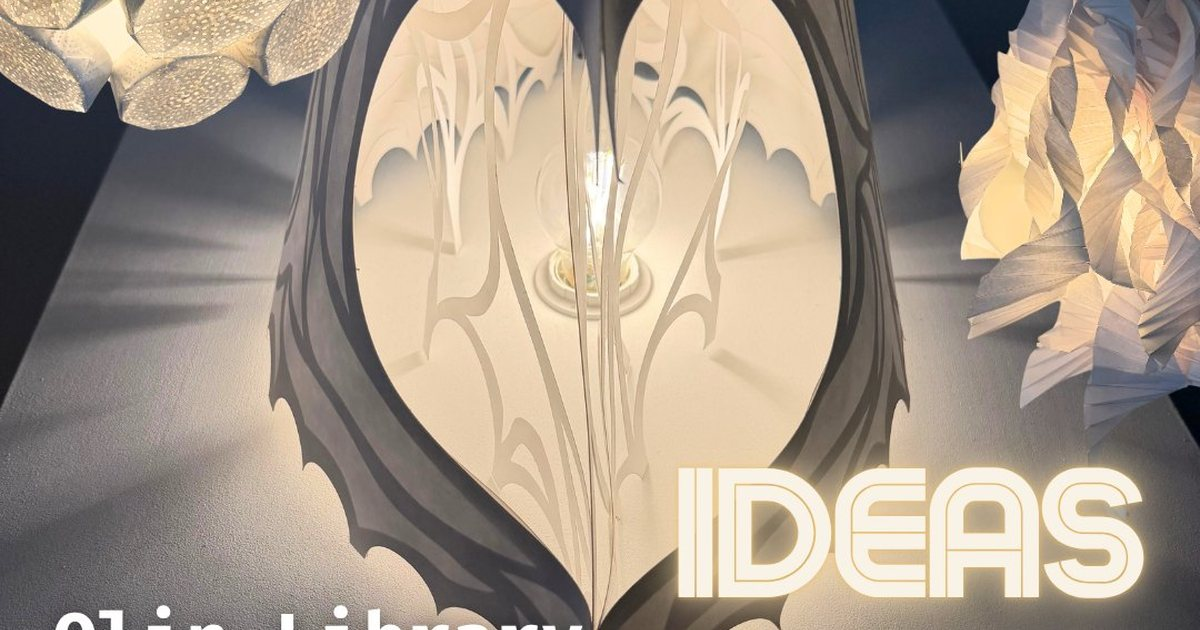
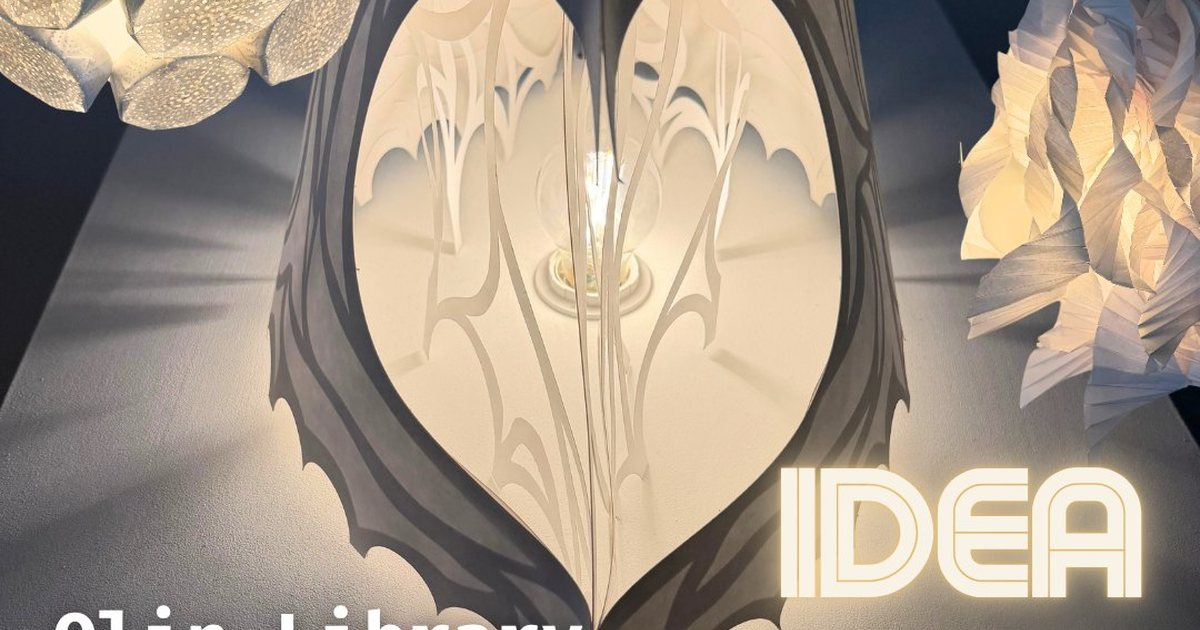
Design: updated IDEA 292 Lampshades poster and Instagram post
Claude-Session: https://claude.ai/code/session_01JYKuCLNppnsomvLAQ2P3KS

Changed region(s): [[0.5242, 0.7238, 0.9558, 0.9952]]

diff --git a/design.html b/design.html
@@ -279,8 +279,8 @@
             <figure class="gx-piece"><button class="gx-zoom" type="button" aria-label="Enlarge: New Books poster styled as a prescription pad from MD: Olin Library"><img src="web/GraphicDesign/newbooks-prescription.jpg" alt="New Books poster styled as a prescription pad from MD: Olin Library" loading="lazy" decoding="async"></button></figure>
         </div>
         <div class="gx-gallery gx-pairs">
-            <figure class="gx-piece"><button class="gx-zoom" type="button" aria-label="Enlarge: IDEAS 292 Lampshades poster listing the student designers"><img src="web/GraphicDesign/ideas-poster.jpg" alt="IDEAS 292 Lampshades poster listing the student designers" loading="lazy" decoding="async"></button></figure>
-            <figure class="gx-piece"><button class="gx-zoom" type="button" aria-label="Enlarge: IDEAS 292 Lampshades Instagram post with a glowing lampshade"><img src="web/GraphicDesign/ideas-post.jpg" alt="IDEAS 292 Lampshades Instagram post with a glowing lampshade" loading="lazy" decoding="async"></button></figure>
+            <figure class="gx-piece"><button class="gx-zoom" type="button" aria-label="Enlarge: IDEA 292 Lampshades poster with student lampshades, Fall 2026"><img src="web/GraphicDesign/ideas-poster.jpg?v=2" alt="IDEA 292 Lampshades poster with student lampshades, Fall 2026" loading="lazy" decoding="async"></button></figure>
+            <figure class="gx-piece"><button class="gx-zoom" type="button" aria-label="Enlarge: IDEA 292 Lampshades Instagram post with a glowing lampshade"><img src="web/GraphicDesign/ideas-post.jpg?v=2" alt="IDEA 292 Lampshades Instagram post with a glowing lampshade" loading="lazy" decoding="async"></button></figure>
             <figure class="gx-piece"><button class="gx-zoom" type="button" aria-label="Enlarge: Art History in the Analog Age poster"><img src="web/GraphicDesign/arthistory-poster.jpg" alt="Art History in the Analog Age poster" loading="lazy" decoding="async"></button></figure>
             <figure class="gx-piece"><button class="gx-zoom" type="button" aria-label="Enlarge: Art History in the Analog Age Instagram post"><img src="web/GraphicDesign/arthistory-post.jpg" alt="Art History in the Analog Age Instagram post" loading="lazy" decoding="async"></button></figure>
         </div>
